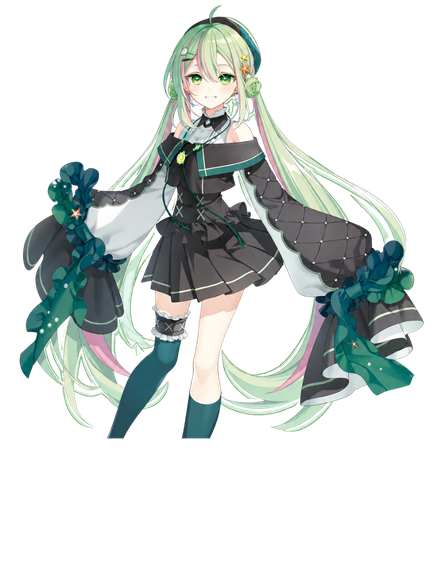
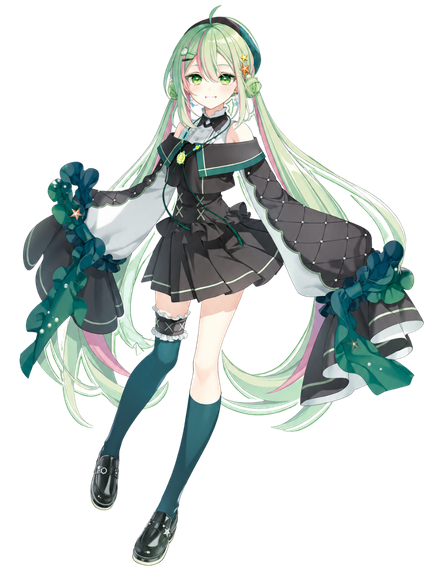
feat(member): aoi立ち絵を修正版に入替＋泡カーテン化
- images/talents/aoi.png を修正版に更新
- 泡ラッシュ16→30個・最大64px＋画面全体の泡ウォッシュ追加

Changed region(s): [[0.3009, 0.7487, 0.4815, 0.9983], [0.2106, 0.7487, 0.3009, 0.9047]]

diff --git a/aoi.html b/aoi.html
@@ -216,7 +216,7 @@
   <p class="source-note"><span data-i18n="footer.admin">作成・管理者：</span><a href="https://x.com/SunSunmachi" target="_blank" rel="noopener">すんすん（@SunSunmachi）</a></p>
 </footer>
 
-<div id="introOverlay" class="intro-overlay" data-member="aoi" aria-hidden="true"><button type="button" class="intro-skip" id="introSkip" data-i18n="t.skip">スキップ</button><span class="intro-ring r1"></span><span class="intro-ring r2"></span><span class="intro-ring r3"></span><span class="intro-ring r4"></span><span class="intro-ring r5"></span><div class="intro-fx fx-aoi"><span class="fx-aoray" style="left:14%;animation-delay:0s"></span><span class="fx-aoray" style="left:64%;animation-delay:1.4s;animation-duration:7s"></span><span class="fx-aoirush" style="left:6%;bottom:-40px;width:22px;height:22px;animation-delay:0s;animation-duration:3.2s;--drift:14px"></span><span class="fx-aoirush" style="left:14%;bottom:-50px;width:34px;height:34px;animation-delay:0.25s;animation-duration:3.8s;--drift:-18px"></span><span class="fx-aoirush" style="left:22%;bottom:-40px;width:16px;height:16px;animation-delay:0.1s;animation-duration:2.9s;--drift:22px"></span><span class="fx-aoirush" style="left:30%;bottom:-60px;width:42px;height:42px;animation-delay:0.5s;animation-duration:4.1s;--drift:-12px"></span><span class="fx-aoirush" style="left:38%;bottom:-40px;width:24px;height:24px;animation-delay:0.7s;animation-duration:3.4s;--drift:16px"></span><span class="fx-aoirush" style="left:46%;bottom:-50px;width:30px;height:30px;animation-delay:0.35s;animation-duration:3.6s;--drift:-22px"></span><span class="fx-aoirush" style="left:54%;bottom:-40px;width:18px;height:18px;animation-delay:0.9s;animation-duration:3s;--drift:20px"></span><span class="fx-aoirush" style="left:62%;bottom:-60px;width:38px;height:38px;animation-delay:0.55s;animation-duration:4.2s;--drift:-14px"></span><span class="fx-aoirush" style="left:70%;bottom:-40px;width:26px;height:26px;animation-delay:1.1s;animation-duration:3.3s;--drift:18px"></span><span class="fx-aoirush" style="left:78%;bottom:-50px;width:20px;height:20px;animation-delay:0.8s;animation-duration:3.1s;--drift:-20px"></span><span class="fx-aoirush" style="left:86%;bottom:-40px;width:32px;height:32px;animation-delay:1.3s;animation-duration:3.7s;--drift:12px"></span><span class="fx-aoirush" style="left:93%;bottom:-55px;width:24px;height:24px;animation-delay:1s;animation-duration:3.5s;--drift:-16px"></span><span class="fx-aoirush" style="left:10%;bottom:-60px;width:28px;height:28px;animation-delay:1.5s;animation-duration:3.4s;--drift:20px"></span><span class="fx-aoirush" style="left:50%;bottom:-55px;width:36px;height:36px;animation-delay:1.65s;animation-duration:3.9s;--drift:-18px"></span><span class="fx-aoirush" style="left:74%;bottom:-45px;width:22px;height:22px;animation-delay:1.8s;animation-duration:3.2s;--drift:14px"></span><span class="fx-aoirush" style="left:34%;bottom:-45px;width:26px;height:26px;animation-delay:1.45s;animation-duration:3.6s;--drift:-14px"></span><span class="fx-turtle-in" style="animation-delay:3s"><svg viewBox="0 0 100 100" aria-hidden="true"><g fill="currentColor"><ellipse cx="48" cy="54" rx="25" ry="19"/><circle cx="76" cy="48" r="9"/><path d="M26,50 L10,40 L17,55 L9,62 L25,61 Z"/><path d="M30,66 L22,80 L35,72 Z"/><path d="M60,66 L56,82 L69,71 Z"/><path d="M22,44 L10,42 L19,52 Z"/></g><g stroke="#fff" stroke-width="3" fill="none" opacity="0.9" stroke-linecap="round"><path d="M37,46 L43,62"/><path d="M49,42 L49,64"/><path d="M61,46 L55,62"/></g><circle cx="78" cy="46" r="1.8" fill="#fff"/></svg></span><span class="fx-kelp" style="left:4%;animation-delay:0s"><svg viewBox="0 0 100 100" aria-hidden="true"><g fill="none" stroke="currentColor" stroke-width="8" stroke-linecap="round"><path d="M30,96 C24,76 36,66 30,46 C26,33 32,23 30,13"/><path d="M52,96 C58,73 46,61 54,41 C58,29 52,19 56,9"/><path d="M74,96 C70,79 80,69 74,51 C70,41 76,31 74,21"/></g><g fill="currentColor"><ellipse cx="30" cy="12" rx="5" ry="7"/><ellipse cx="56" cy="8" rx="5" ry="7"/><ellipse cx="74" cy="20" rx="4" ry="6"/></g></svg></span><span class="fx-kelp" style="right:5%;animation-delay:1.6s;animation-duration:6s;height:150px"><svg viewBox="0 0 100 100" aria-hidden="true"><g fill="none" stroke="currentColor" stroke-width="8" stroke-linecap="round"><path d="M30,96 C24,76 36,66 30,46 C26,33 32,23 30,13"/><path d="M52,96 C58,73 46,61 54,41 C58,29 52,19 56,9"/><path d="M74,96 C70,79 80,69 74,51 C70,41 76,31 74,21"/></g><g fill="currentColor"><ellipse cx="30" cy="12" rx="5" ry="7"/><ellipse cx="56" cy="8" rx="5" ry="7"/><ellipse cx="74" cy="20" rx="4" ry="6"/></g></svg></span><span class="fx-kelp" style="left:44%;animation-delay:0.8s;animation-duration:7.5s;height:110px;opacity:0.7"><svg viewBox="0 0 100 100" aria-hidden="true"><g fill="none" stroke="currentColor" stroke-width="8" stroke-linecap="round"><path d="M30,96 C24,76 36,66 30,46 C26,33 32,23 30,13"/><path d="M52,96 C58,73 46,61 54,41 C58,29 52,19 56,9"/><path d="M74,96 C70,79 80,69 74,51 C70,41 76,31 74,21"/></g><g fill="currentColor"><ellipse cx="30" cy="12" rx="5" ry="7"/><ellipse cx="56" cy="8" rx="5" ry="7"/><ellipse cx="74" cy="20" rx="4" ry="6"/></g></svg></span><span class="fx-aoifloor"></span><span class="fx-flash"></span></div><div class="intro-stage"><img class="intro-art" src="images/talents/aoi.png" alt="海琳あおい"><p class="intro-name" data-i18n-name="aoi">海琳あおい</p><p class="intro-catch" id="introCatch"></p></div><audio id="introAudio" src="" preload="auto"></audio><button type="button" class="intro-start" id="introStartBtn" data-i18n="t.tapPlay">▶ タップで再生</button></div>
+<div id="introOverlay" class="intro-overlay" data-member="aoi" aria-hidden="true"><button type="button" class="intro-skip" id="introSkip" data-i18n="t.skip">スキップ</button><span class="intro-ring r1"></span><span class="intro-ring r2"></span><span class="intro-ring r3"></span><span class="intro-ring r4"></span><span class="intro-ring r5"></span><div class="intro-fx fx-aoi"><span class="fx-aoray" style="left:14%;animation-delay:0s"></span><span class="fx-aoray" style="left:64%;animation-delay:1.4s;animation-duration:7s"></span><span class="fx-aoiwash"></span><span class="fx-aoirush" style="left:2%;bottom:-40px;width:44px;height:44px;animation-delay:0s;animation-duration:3.4s;--drift:16px"></span><span class="fx-aoirush" style="left:6%;bottom:-50px;width:26px;height:26px;animation-delay:0.15s;animation-duration:3s;--drift:-20px"></span><span class="fx-aoirush" style="left:10%;bottom:-40px;width:58px;height:58px;animation-delay:0.05s;animation-duration:3.9s;--drift:12px"></span><span class="fx-aoirush" style="left:14%;bottom:-55px;width:30px;height:30px;animation-delay:0.3s;animation-duration:3.2s;--drift:-16px"></span><span class="fx-aoirush" style="left:18%;bottom:-40px;width:48px;height:48px;animation-delay:0.1s;animation-duration:3.7s;--drift:20px"></span><span class="fx-aoirush" style="left:22%;bottom:-60px;width:22px;height:22px;animation-delay:0.45s;animation-duration:2.9s;--drift:-14px"></span><span class="fx-aoirush" style="left:26%;bottom:-40px;width:62px;height:62px;animation-delay:0.2s;animation-duration:4s;--drift:14px"></span><span class="fx-aoirush" style="left:30%;bottom:-50px;width:34px;height:34px;animation-delay:0.55s;animation-duration:3.3s;--drift:-20px"></span><span class="fx-aoirush" style="left:34%;bottom:-40px;width:52px;height:52px;animation-delay:0.35s;animation-duration:3.8s;--drift:18px"></span><span class="fx-aoirush" style="left:38%;bottom:-60px;width:24px;height:24px;animation-delay:0.65s;animation-duration:3s;--drift:-12px"></span><span class="fx-aoirush" style="left:42%;bottom:-40px;width:56px;height:56px;animation-delay:0.4s;animation-duration:4.1s;--drift:16px"></span><span class="fx-aoirush" style="left:46%;bottom:-50px;width:28px;height:28px;animation-delay:0.75s;animation-duration:3.2s;--drift:-18px"></span><span class="fx-aoirush" style="left:50%;bottom:-40px;width:64px;height:64px;animation-delay:0.5s;animation-duration:4.2s;--drift:12px"></span><span class="fx-aoirush" style="left:54%;bottom:-55px;width:32px;height:32px;animation-delay:0.85s;animation-duration:3.4s;--drift:-16px"></span><span class="fx-aoirush" style="left:58%;bottom:-40px;width:46px;height:46px;animation-delay:0.6s;animation-duration:3.6s;--drift:20px"></span><span class="fx-aoirush" style="left:62%;bottom:-60px;width:24px;height:24px;animation-delay:0.95s;animation-duration:3s;--drift:-14px"></span><span class="fx-aoirush" style="left:66%;bottom:-40px;width:54px;height:54px;animation-delay:0.7s;animation-duration:3.9s;--drift:16px"></span><span class="fx-aoirush" style="left:70%;bottom:-50px;width:30px;height:30px;animation-delay:1.05s;animation-duration:3.3s;--drift:-20px"></span><span class="fx-aoirush" style="left:74%;bottom:-40px;width:60px;height:60px;animation-delay:0.8s;animation-duration:4s;--drift:14px"></span><span class="fx-aoirush" style="left:78%;bottom:-55px;width:26px;height:26px;animation-delay:1.15s;animation-duration:3.1s;--drift:-16px"></span><span class="fx-aoirush" style="left:82%;bottom:-40px;width:48px;height:48px;animation-delay:0.9s;animation-duration:3.7s;--drift:18px"></span><span class="fx-aoirush" style="left:86%;bottom:-50px;width:32px;height:32px;animation-delay:1.25s;animation-duration:3.4s;--drift:-12px"></span><span class="fx-aoirush" style="left:90%;bottom:-40px;width:56px;height:56px;animation-delay:1s;animation-duration:3.8s;--drift:16px"></span><span class="fx-aoirush" style="left:94%;bottom:-55px;width:28px;height:28px;animation-delay:1.35s;animation-duration:3.2s;--drift:-18px"></span><span class="fx-aoirush" style="left:97%;bottom:-45px;width:44px;height:44px;animation-delay:1.1s;animation-duration:3.6s;--drift:12px"></span><span class="fx-aoirush" style="left:12%;bottom:-65px;width:36px;height:36px;animation-delay:1.45s;animation-duration:3.3s;--drift:18px"></span><span class="fx-aoirush" style="left:44%;bottom:-60px;width:40px;height:40px;animation-delay:1.55s;animation-duration:3.5s;--drift:-14px"></span><span class="fx-aoirush" style="left:68%;bottom:-65px;width:38px;height:38px;animation-delay:1.65s;animation-duration:3.4s;--drift:16px"></span><span class="fx-aoirush" style="left:28%;bottom:-60px;width:30px;height:30px;animation-delay:1.7s;animation-duration:3.2s;--drift:-18px"></span><span class="fx-aoirush" style="left:84%;bottom:-65px;width:34px;height:34px;animation-delay:1.8s;animation-duration:3.3s;--drift:14px"></span><span class="fx-turtle-in" style="animation-delay:3s"><svg viewBox="0 0 100 100" aria-hidden="true"><g fill="currentColor"><ellipse cx="48" cy="54" rx="25" ry="19"/><circle cx="76" cy="48" r="9"/><path d="M26,50 L10,40 L17,55 L9,62 L25,61 Z"/><path d="M30,66 L22,80 L35,72 Z"/><path d="M60,66 L56,82 L69,71 Z"/><path d="M22,44 L10,42 L19,52 Z"/></g><g stroke="#fff" stroke-width="3" fill="none" opacity="0.9" stroke-linecap="round"><path d="M37,46 L43,62"/><path d="M49,42 L49,64"/><path d="M61,46 L55,62"/></g><circle cx="78" cy="46" r="1.8" fill="#fff"/></svg></span><span class="fx-kelp" style="left:4%;animation-delay:0s"><svg viewBox="0 0 100 100" aria-hidden="true"><g fill="none" stroke="currentColor" stroke-width="8" stroke-linecap="round"><path d="M30,96 C24,76 36,66 30,46 C26,33 32,23 30,13"/><path d="M52,96 C58,73 46,61 54,41 C58,29 52,19 56,9"/><path d="M74,96 C70,79 80,69 74,51 C70,41 76,31 74,21"/></g><g fill="currentColor"><ellipse cx="30" cy="12" rx="5" ry="7"/><ellipse cx="56" cy="8" rx="5" ry="7"/><ellipse cx="74" cy="20" rx="4" ry="6"/></g></svg></span><span class="fx-kelp" style="right:5%;animation-delay:1.6s;animation-duration:6s;height:150px"><svg viewBox="0 0 100 100" aria-hidden="true"><g fill="none" stroke="currentColor" stroke-width="8" stroke-linecap="round"><path d="M30,96 C24,76 36,66 30,46 C26,33 32,23 30,13"/><path d="M52,96 C58,73 46,61 54,41 C58,29 52,19 56,9"/><path d="M74,96 C70,79 80,69 74,51 C70,41 76,31 74,21"/></g><g fill="currentColor"><ellipse cx="30" cy="12" rx="5" ry="7"/><ellipse cx="56" cy="8" rx="5" ry="7"/><ellipse cx="74" cy="20" rx="4" ry="6"/></g></svg></span><span class="fx-kelp" style="left:44%;animation-delay:0.8s;animation-duration:7.5s;height:110px;opacity:0.7"><svg viewBox="0 0 100 100" aria-hidden="true"><g fill="none" stroke="currentColor" stroke-width="8" stroke-linecap="round"><path d="M30,96 C24,76 36,66 30,46 C26,33 32,23 30,13"/><path d="M52,96 C58,73 46,61 54,41 C58,29 52,19 56,9"/><path d="M74,96 C70,79 80,69 74,51 C70,41 76,31 74,21"/></g><g fill="currentColor"><ellipse cx="30" cy="12" rx="5" ry="7"/><ellipse cx="56" cy="8" rx="5" ry="7"/><ellipse cx="74" cy="20" rx="4" ry="6"/></g></svg></span><span class="fx-aoifloor"></span><span class="fx-flash"></span></div><div class="intro-stage"><img class="intro-art" src="images/talents/aoi.png" alt="海琳あおい"><p class="intro-name" data-i18n-name="aoi">海琳あおい</p><p class="intro-catch" id="introCatch"></p></div><audio id="introAudio" src="" preload="auto"></audio><button type="button" class="intro-start" id="introStartBtn" data-i18n="t.tapPlay">▶ タップで再生</button></div>
 
 
 <!-- Milli Unishare 参考: アカウント連携 4モーダル構成 -->

diff --git a/scripts/gen-pages.js b/scripts/gen-pages.js
@@ -240,22 +240,37 @@ function fxHtml(kind) {
     aoi:
       '<span class="fx-aoray" style="left:14%;animation-delay:0s"></span>' +
       '<span class="fx-aoray" style="left:64%;animation-delay:1.4s;animation-duration:7s"></span>' +
-      '<span class="fx-aoirush" style="left:6%;bottom:-40px;width:22px;height:22px;animation-delay:0s;animation-duration:3.2s;--drift:14px"></span>' +
-      '<span class="fx-aoirush" style="left:14%;bottom:-50px;width:34px;height:34px;animation-delay:0.25s;animation-duration:3.8s;--drift:-18px"></span>' +
-      '<span class="fx-aoirush" style="left:22%;bottom:-40px;width:16px;height:16px;animation-delay:0.1s;animation-duration:2.9s;--drift:22px"></span>' +
-      '<span class="fx-aoirush" style="left:30%;bottom:-60px;width:42px;height:42px;animation-delay:0.5s;animation-duration:4.1s;--drift:-12px"></span>' +
-      '<span class="fx-aoirush" style="left:38%;bottom:-40px;width:24px;height:24px;animation-delay:0.7s;animation-duration:3.4s;--drift:16px"></span>' +
-      '<span class="fx-aoirush" style="left:46%;bottom:-50px;width:30px;height:30px;animation-delay:0.35s;animation-duration:3.6s;--drift:-22px"></span>' +
-      '<span class="fx-aoirush" style="left:54%;bottom:-40px;width:18px;height:18px;animation-delay:0.9s;animation-duration:3s;--drift:20px"></span>' +
-      '<span class="fx-aoirush" style="left:62%;bottom:-60px;width:38px;height:38px;animation-delay:0.55s;animation-duration:4.2s;--drift:-14px"></span>' +
-      '<span class="fx-aoirush" style="left:70%;bottom:-40px;width:26px;height:26px;animation-delay:1.1s;animation-duration:3.3s;--drift:18px"></span>' +
-      '<span class="fx-aoirush" style="left:78%;bottom:-50px;width:20px;height:20px;animation-delay:0.8s;animation-duration:3.1s;--drift:-20px"></span>' +
-      '<span class="fx-aoirush" style="left:86%;bottom:-40px;width:32px;height:32px;animation-delay:1.3s;animation-duration:3.7s;--drift:12px"></span>' +
-      '<span class="fx-aoirush" style="left:93%;bottom:-55px;width:24px;height:24px;animation-delay:1s;animation-duration:3.5s;--drift:-16px"></span>' +
-      '<span class="fx-aoirush" style="left:10%;bottom:-60px;width:28px;height:28px;animation-delay:1.5s;animation-duration:3.4s;--drift:20px"></span>' +
-      '<span class="fx-aoirush" style="left:50%;bottom:-55px;width:36px;height:36px;animation-delay:1.65s;animation-duration:3.9s;--drift:-18px"></span>' +
-      '<span class="fx-aoirush" style="left:74%;bottom:-45px;width:22px;height:22px;animation-delay:1.8s;animation-duration:3.2s;--drift:14px"></span>' +
-      '<span class="fx-aoirush" style="left:34%;bottom:-45px;width:26px;height:26px;animation-delay:1.45s;animation-duration:3.6s;--drift:-14px"></span>' +
+      '<span class="fx-aoiwash"></span>' +
+      '<span class="fx-aoirush" style="left:2%;bottom:-40px;width:44px;height:44px;animation-delay:0s;animation-duration:3.4s;--drift:16px"></span>' +
+      '<span class="fx-aoirush" style="left:6%;bottom:-50px;width:26px;height:26px;animation-delay:0.15s;animation-duration:3s;--drift:-20px"></span>' +
+      '<span class="fx-aoirush" style="left:10%;bottom:-40px;width:58px;height:58px;animation-delay:0.05s;animation-duration:3.9s;--drift:12px"></span>' +
+      '<span class="fx-aoirush" style="left:14%;bottom:-55px;width:30px;height:30px;animation-delay:0.3s;animation-duration:3.2s;--drift:-16px"></span>' +
+      '<span class="fx-aoirush" style="left:18%;bottom:-40px;width:48px;height:48px;animation-delay:0.1s;animation-duration:3.7s;--drift:20px"></span>' +
+      '<span class="fx-aoirush" style="left:22%;bottom:-60px;width:22px;height:22px;animation-delay:0.45s;animation-duration:2.9s;--drift:-14px"></span>' +
+      '<span class="fx-aoirush" style="left:26%;bottom:-40px;width:62px;height:62px;animation-delay:0.2s;animation-duration:4s;--drift:14px"></span>' +
+      '<span class="fx-aoirush" style="left:30%;bottom:-50px;width:34px;height:34px;animation-delay:0.55s;animation-duration:3.3s;--drift:-20px"></span>' +
+      '<span class="fx-aoirush" style="left:34%;bottom:-40px;width:52px;height:52px;animation-delay:0.35s;animation-duration:3.8s;--drift:18px"></span>' +
+      '<span class="fx-aoirush" style="left:38%;bottom:-60px;width:24px;height:24px;animation-delay:0.65s;animation-duration:3s;--drift:-12px"></span>' +
+      '<span class="fx-aoirush" style="left:42%;bottom:-40px;width:56px;height:56px;animation-delay:0.4s;animation-duration:4.1s;--drift:16px"></span>' +
+      '<span class="fx-aoirush" style="left:46%;bottom:-50px;width:28px;height:28px;animation-delay:0.75s;animation-duration:3.2s;--drift:-18px"></span>' +
+      '<span class="fx-aoirush" style="left:50%;bottom:-40px;width:64px;height:64px;animation-delay:0.5s;animation-duration:4.2s;--drift:12px"></span>' +
+      '<span class="fx-aoirush" style="left:54%;bottom:-55px;width:32px;height:32px;animation-delay:0.85s;animation-duration:3.4s;--drift:-16px"></span>' +
+      '<span class="fx-aoirush" style="left:58%;bottom:-40px;width:46px;height:46px;animation-delay:0.6s;animation-duration:3.6s;--drift:20px"></span>' +
+      '<span class="fx-aoirush" style="left:62%;bottom:-60px;width:24px;height:24px;animation-delay:0.95s;animation-duration:3s;--drift:-14px"></span>' +
+      '<span class="fx-aoirush" style="left:66%;bottom:-40px;width:54px;height:54px;animation-delay:0.7s;animation-duration:3.9s;--drift:16px"></span>' +
+      '<span class="fx-aoirush" style="left:70%;bottom:-50px;width:30px;height:30px;animation-delay:1.05s;animation-duration:3.3s;--drift:-20px"></span>' +
+      '<span class="fx-aoirush" style="left:74%;bottom:-40px;width:60px;height:60px;animation-delay:0.8s;animation-duration:4s;--drift:14px"></span>' +
+      '<span class="fx-aoirush" style="left:78%;bottom:-55px;width:26px;height:26px;animation-delay:1.15s;animation-duration:3.1s;--drift:-16px"></span>' +
+      '<span class="fx-aoirush" style="left:82%;bottom:-40px;width:48px;height:48px;animation-delay:0.9s;animation-duration:3.7s;--drift:18px"></span>' +
+      '<span class="fx-aoirush" style="left:86%;bottom:-50px;width:32px;height:32px;animation-delay:1.25s;animation-duration:3.4s;--drift:-12px"></span>' +
+      '<span class="fx-aoirush" style="left:90%;bottom:-40px;width:56px;height:56px;animation-delay:1s;animation-duration:3.8s;--drift:16px"></span>' +
+      '<span class="fx-aoirush" style="left:94%;bottom:-55px;width:28px;height:28px;animation-delay:1.35s;animation-duration:3.2s;--drift:-18px"></span>' +
+      '<span class="fx-aoirush" style="left:97%;bottom:-45px;width:44px;height:44px;animation-delay:1.1s;animation-duration:3.6s;--drift:12px"></span>' +
+      '<span class="fx-aoirush" style="left:12%;bottom:-65px;width:36px;height:36px;animation-delay:1.45s;animation-duration:3.3s;--drift:18px"></span>' +
+      '<span class="fx-aoirush" style="left:44%;bottom:-60px;width:40px;height:40px;animation-delay:1.55s;animation-duration:3.5s;--drift:-14px"></span>' +
+      '<span class="fx-aoirush" style="left:68%;bottom:-65px;width:38px;height:38px;animation-delay:1.65s;animation-duration:3.4s;--drift:16px"></span>' +
+      '<span class="fx-aoirush" style="left:28%;bottom:-60px;width:30px;height:30px;animation-delay:1.7s;animation-duration:3.2s;--drift:-18px"></span>' +
+      '<span class="fx-aoirush" style="left:84%;bottom:-65px;width:34px;height:34px;animation-delay:1.8s;animation-duration:3.3s;--drift:14px"></span>' +
       '<span class="fx-turtle-in" style="animation-delay:3s">' + DECO_SVG.turtle + "</span>" +
       '<span class="fx-kelp" style="left:4%;animation-delay:0s">' + DECO_SVG.seaweed + "</span>" +
       '<span class="fx-kelp" style="right:5%;animation-delay:1.6s;animation-duration:6s;height:150px">' + DECO_SVG.seaweed + "</span>" +

diff --git a/style.css b/style.css
@@ -2720,6 +2720,8 @@ footer .disclaimer { font-weight: 700; color: #8a6d3b; }
 .fx-kelp { position: absolute; bottom: -8px; width: 64px; height: 170px; color: rgba(255, 255, 255, 0.85); transform-origin: 50% 100%; animation: fxKelpSway 5s ease-in-out infinite; }
 .fx-kelp svg { width: 100%; height: 100%; display: block; filter: drop-shadow(0 0 6px rgba(255, 255, 255, 0.35)); }
 @keyframes fxKelpSway { 0%, 100% { transform: rotate(-5deg); } 50% { transform: rotate(6deg); } }
+.fx-aoiwash { position: absolute; inset: 0; opacity: 0; pointer-events: none; animation: fxAoiWash 2.8s ease-out 1 forwards; background: radial-gradient(26px 26px at 12% 80%, rgba(255, 255, 255, 0.75), transparent 70%), radial-gradient(40px 40px at 32% 65%, rgba(255, 255, 255, 0.7), transparent 70%), radial-gradient(22px 22px at 55% 78%, rgba(255, 255, 255, 0.75), transparent 70%), radial-gradient(48px 48px at 74% 62%, rgba(255, 255, 255, 0.7), transparent 70%), radial-gradient(30px 30px at 90% 76%, rgba(255, 255, 255, 0.75), transparent 70%), radial-gradient(34px 34px at 22% 40%, rgba(255, 255, 255, 0.6), transparent 70%), radial-gradient(44px 44px at 48% 32%, rgba(255, 255, 255, 0.6), transparent 70%), radial-gradient(28px 28px at 68% 42%, rgba(255, 255, 255, 0.6), transparent 70%), radial-gradient(38px 38px at 84% 30%, rgba(255, 255, 255, 0.6), transparent 70%), linear-gradient(180deg, rgba(220, 245, 200, 0.25), rgba(160, 215, 130, 0.35)); }
+@keyframes fxAoiWash { 0% { opacity: 0; } 20% { opacity: 0.85; } 70% { opacity: 0.7; } 100% { opacity: 0; } }
 .fx-aoirush { position: absolute; border-radius: 50%; opacity: 0; border: 3px solid rgba(255, 255, 255, 0.8); background: radial-gradient(circle at 35% 30%, rgba(255, 255, 255, 0.75) 0 22%, rgba(190, 235, 160, 0.3) 60%, transparent 70%); box-shadow: 0 0 10px rgba(255, 255, 255, 0.35); animation: fxAoiRush 3.6s ease-in 1 forwards; }
 @keyframes fxAoiRush {
   0% { transform: translateY(0) translateX(0) scale(0.4); opacity: 0; }
